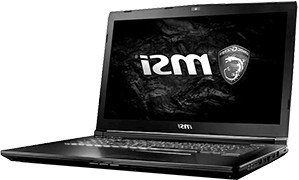
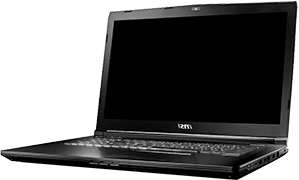
uploaded to repo

Changed region(s): [[0.3913, 0.0833, 0.8428, 0.6389], [0.8127, 0.1944, 0.8428, 0.2222], [0.7826, 0.1667, 0.8127, 0.1944]]

diff --git a/assets/includes/section3.html b/assets/includes/section3.html
@@ -4,23 +4,24 @@
     </div>
 </div>
 <div class="col-sm-12 imgContainer textAnim2 wow slideInDown">
-    <img class="headerImg textAnim3 wow rotateInDownRight" src="assets/gfx/laptop.png">
-</div>
+        <img class="smHide laptopAnim bottom headerImg textAnim3 wow rotateInDownRight" src="assets/gfx/laptop.png">
+        <img class="laptopAnim top headerImg textAnim3 wow rotateInDownRight" src="assets/gfx/laptop2.png">
+        </div>
 <div class="col-sm-12 sub-headline textAnim2 wow fadeIn">
     <p><b>Drivende interesse for faget som strekker seg fra drift til utvikling. Drevet med web-utvikling siden tenårene, samtidig som jeg har hatt en interesse for design og det kreative. Har også lang erfaring fra salg- og service-bransjen.</b></p>
 </div>
 <div class="row"></div>
     <div class="col-sm-4 plainText textAnim2 wow bounceInLeft">
-        <p class="sub-headline headline2"><b>Verktøy og Språk</b></p>
+        <h3 class=" headline2"><b>Verktøy og Språk</b></h3>
         <p>Dette er ferdigheter som ofte hentes frem og man lærer virkelig noe nytt hver gang. Programmering generelt er noe jeg synes er veldig fascinerende og er definitivt noe jeg kommer til å satse på.</p>
         <p>HTML5 – CSS3 – sass – JavaScript – jQuery – Bootstrap – Wordpress – Joomla – Java – git – npm/Node.js – gulp – Java – Python – SQL - Photoshop</p>
         </div>
     <div class="col-sm-4 plainText textAnim2 wow bounceInUp">
-        <p class="sub-headline headline2"><b>Praksis</b></p>
+        <h3 class=" headline2"><b>Praksis</b></h3>
         <p>Jobbet i en lokal, mellomstor IT-bedrift under skoletiden. Der hadde jeg en bred variasjon av oppgaver. Alt fra kjøring og henting, installasjon av server-rack og utvikling av nettsider. Det gikk også i mye support, både «on-site» og via telefon/fjernstyring. Installasjon av virtuelle maskiner, printere og nye maskiner. Oppsett av maskiner i høy skala og integrering av POS-systemer, blant mye annet. Stort sett ut mot bedrifter.</p>
     </div>
     <div class="col-sm-4 plainText textAnim2 wow bounceInRight">
-        <p class="sub-headline headline2 "><b>Jobb</b></p>
+        <h3 class=" headline2 "><b>Jobb</b></h3>
         <p>Har lang erfaring fra salg- og servicebransjen, både support og i butikk. Har også leder-erfaring fra alle fulltidsjobber jeg har hatt. Det har for det meste dreid seg om teknisk support, men også en del om faktura/inkasso. I min nåværende jobb går det i reparasjon og support på små-elektronikk, som smarttelefoner og tablets. Men også bærbare PC-er.</p>
     </div>
     <div class="col-sm-12 downArrow wow animatedHover infinite rubberBand">

diff --git a/assets/includes/section2.html b/assets/includes/section2.html
@@ -6,20 +6,20 @@
 <div class="col-sm-12 imgContainer textAnim2 wow slideInDown">
         <img class="headerImg textAnim3 wow rotateInDownRight" src="assets/gfx/uni.png">
 </div>
-<div class="col-sm-12 sub-headline textAnim2 wow fadeIn">
-    <p><b>Har en bachelor i Informatikk fra HSN med spesialisering i Informasjonsystemer. Et utdanningsløp som innebefatter drift av datasystemer, utvikling og ledelse. Har i tillegg hatt et semester i praksis hos en mellomstor IT-bedrift for «hands-on» erfaring.</b></p>
+<div class="sub-headline col-sm-12 textAnim2 wow fadeIn">
+    <p><b>Har en bachelor i Informatikk fra HSN med spesialisering i Informasjonsystemer. Et utdanningsløp som innebefatter drift av datasystemer, utvikling og ledelse. Har i tillegg hatt et semester i praksis hos en mellomstor IT-bedrift for «hands-on» erfaring.</b></h3>
 </div>
 <div class="row"></div>
     <div class="col-sm-4 plainText textAnim2 wow bounceInLeft">
-        <p class="sub-headline headline2"><b>Utvikling</b></p>
+        <h3 class="headline2"><b>Utvikling</b></h3>
         <p>Under utdanningen sto Java-programmering i sentrum, fordelt på flere semester. Grunnlegende programmering, etterfulgt av objektorierntert programmering. Web-utvikling og databaser har også vært en del av pensum, der jeg personlig har mest erfaring med web, som HTML5, CSS3 og sass.</p>
     </div>
     <div class="col-sm-4 plainText textAnim2 wow bounceInUp">
-        <p class="sub-headline headline2"><b>Datasystemer</b></p>
+        <h3 class="headline2"><b>Datasystemer</b></h3>
         <p>Både windows- og linuxservere har vært pensum, der vi har hatt praktisk erfaring med oppsett og drift, samtidig som vi har gått dypere inn i det teoretiske. Kunnskap om serverarktitektur og løsningsarkitektur har vært en viktig del av utdannelsen og er for øvrig noe som interesserer meg. Samtidig har nettverk, generelt, vært en stor del av dette.</p>
     </div>
     <div class="col-sm-4 plainText textAnim2 wow bounceInRight">
-        <p class="sub-headline headline2"><b>Teori</b></p>
+        <h3 class="headline2"><b>Teori</b></h3>
         <p>Rammeverk, teknologi, research og «IT-buisness» har inngått i de mer teoretiske fagene, sammen med matematikk og statistikk. Spesialiseringen gikk mer inn på ITIL som et populært rammeverk for leveranse, drift og brukerstøtte i IT-bedrifter i tillegg til «best practices» og viktigheten av å være oppdatert på teknologien. </p>
     </div>
     <div class="col-sm-12 downArrow wow animatedHover infinite rubberBand">

diff --git a/assets/scss/stylesheet.scss b/assets/scss/stylesheet.scss
@@ -30,7 +30,7 @@ body {
     background-image: url(/assets/gfx/background1.png), url(/assets/gfx/background21.png);
     background-repeat: no-repeat;
     background-attachment: fixed;
-    background-position-y: 50vh, 50vh;
+    background-position-y: 30vh, 30vh;
     background-position-x: 4vw, 85vw;
     animation: bgMove 4s infinite;
     overflow-x: hidden;
@@ -140,8 +140,17 @@ a {
             padding: 0;
             background-image: url(/assets/gfx/pattern2.png);
             background-repeat: repeat-x;
-            height: 200px;
+            height: 210px;
             width: 100%;
+            .laptopAnim{
+                -webkit-transition: opacity 1s 5s ease-in ease-out;
+                -moz-transition: opacity 1s 5s ease-in ease-out;
+                -o-transition: opacity 1s 5s ease-in ease-out;
+                transition: opacity 1s 5s ease-in ease-out;
+            }
+            .laptopAnim:hover {
+                opacity:0;
+            }
             img {
                 position: absolute;
                 right: 0;
@@ -154,18 +163,16 @@ a {
         .headline {
             padding-left: 2vw;
             font-family: 'Roboto Slab';
-            /*background-image: url(/assets/gfx/bgPattern.png);*/
             background-color: $testColor1;
             color: $HeadlineColor;
         }
         .sub-headline {
             font-family: 'Roboto';
             font-size: 1.5em;
-            padding-top: 3vh;
+            padding-top: 5vh;
             transition: 2s;
-        }
-        .sub-headline:hover {
-            color: $transformColor2;
+            color: white;
+            background-color: black;
         }
         .plainText {
             font-family: 'Roboto';
@@ -226,13 +233,13 @@ a {
 
 @keyframes bgMove {
 	0% {
-		background-position-y: 50vh;
+		background-position-y: 30vh;
 	}
 	50% {
-		background-position-y: 48vh;
+		background-position-y: 28vh;
 	}
 	100% {
-		background-position-y: 50vh;
+		background-position-y: 30vh;
 	}
 }
 #splashLogo {
@@ -480,11 +487,15 @@ $tcon-svgchevron-timing: 3s !default;
         .imgContainer {
             height: 100px !important;
             background-image: none !important;
+            .smHide {
+                display: none !important;
+            }
             img {
                 display: block !important;
                 margin: 0 auto !important;
                 position: static !important;
                 max-height: 100px !important;
+                
             }
         }
         .headline {

diff --git a/assets/css/stylesheet.css b/assets/css/stylesheet.css
@@ -18,7 +18,7 @@ body {
   background-image: url(/assets/gfx/background1.png), url(/assets/gfx/background21.png);
   background-repeat: no-repeat;
   background-attachment: fixed;
-  background-position-y: 50vh, 50vh;
+  background-position-y: 30vh, 30vh;
   background-position-x: 4vw, 85vw;
   animation: bgMove 4s infinite;
   overflow-x: hidden; }
@@ -107,8 +107,15 @@ a {
       padding: 0;
       background-image: url(/assets/gfx/pattern2.png);
       background-repeat: repeat-x;
-      height: 200px;
+      height: 210px;
       width: 100%; }
+      .section .content .imgContainer .laptopAnim {
+        -webkit-transition: opacity 1s 5s ease-in ease-out;
+        -moz-transition: opacity 1s 5s ease-in ease-out;
+        -o-transition: opacity 1s 5s ease-in ease-out;
+        transition: opacity 1s 5s ease-in ease-out; }
+      .section .content .imgContainer .laptopAnim:hover {
+        opacity: 0; }
       .section .content .imgContainer img {
         position: absolute;
         right: 0;
@@ -119,16 +126,15 @@ a {
     .section .content .headline {
       padding-left: 2vw;
       font-family: 'Roboto Slab';
-      /*background-image: url(/assets/gfx/bgPattern.png);*/
       background-color: #010A0A;
       color: white; }
     .section .content .sub-headline {
       font-family: 'Roboto';
       font-size: 1.5em;
-      padding-top: 3vh;
-      transition: 2s; }
-    .section .content .sub-headline:hover {
-      color: black; }
+      padding-top: 5vh;
+      transition: 2s;
+      color: white;
+      background-color: black; }
     .section .content .plainText {
       font-family: 'Roboto';
       padding-top: 3vh;
@@ -172,11 +178,11 @@ a {
 
 @keyframes bgMove {
   0% {
-    background-position-y: 50vh; }
+    background-position-y: 30vh; }
   50% {
-    background-position-y: 48vh; }
+    background-position-y: 28vh; }
   100% {
-    background-position-y: 50vh; } }
+    background-position-y: 30vh; } }
 
 #splashLogo {
   max-width: 88rem;
@@ -380,6 +386,8 @@ a {
     .content .imgContainer {
       height: 100px !important;
       background-image: none !important; }
+      .content .imgContainer .smHide {
+        display: none !important; }
       .content .imgContainer img {
         display: block !important;
         margin: 0 auto !important;

diff --git a/assets/includes/section1.html b/assets/includes/section1.html
@@ -15,15 +15,15 @@ Jeg er en målbevisst og utadvendt kar med en iboende skapertrang og mange ideer
 </div>
 <div class="row"></div>
     <div class="col-sm-4 plainText textAnim2 wow bounceInLeft">
-        <p class="sub-headline headline2"><b>Kvalitetsbevisst</b></p>
+        <h3 class=" headline2"><b>Kvalitetsbevisst</b></h3>
         <p>Jeg føler ansvar over eget arbeide og er hele tiden opptatt av at det skal holde en respektabel kvalitet, både i jobb og privat. Man lærer hele tiden noe nytt ved å prøve og feile, og det er viktig for meg å jobbe med noe man kan stå for og ikke minst være stolt av. Dette er kvaliteter som har hjulpet meg mye gjennom jobb i servicebransjen.</p>
     </div>
     <div class="col-sm-4 plainText textAnim2 wow bounceInUp">
-        <p class="sub-headline headline2"><b>Fleksibel</b></p>
+        <h3 class="headline2"><b>Fleksibel</b></h3>
         <p>Jeg har en stor omstillingsevne og er tilpasningsdyktig, både i yrkeslivet og i møte med andre mennesker. Egenskaper som jeg ser på som meget viktige i jobb og i livet generelt. Samtidig er jeg punktlig både når det gjelder tider og det å være nøyaktig i jobben man gjør. Som leder har det vært viktig for meg å sette et godt eksempel for mine medarbeidere.</p>
     </div>
     <div class="col-sm-4 plainText textAnim2 wow bounceInRight">
-        <p class="sub-headline headline2"><b>Engasjert</b></p>
+        <h3 class="headline2"><b>Engasjert</b></h3>
         <p>Jeg engasjerer meg veldig i bedriften jeg er i og jobber hele tiden for å videreutvikle meg selv for å få mer innsikt og bli enda mer effektiv i arbeidet jeg gjør. Besitter en ruvende nyskjerrighet ovenfor IT-faget og er hele tiden ute etter å lære noe nytt. I min tid som reparatør har dette vært en egenskap som har hjulpet meg med å være selvstendig og effektiv i jobben min.</p>
     </div>
     <div class="col-sm-12 downArrow wow animatedHover infinite rubberBand">
